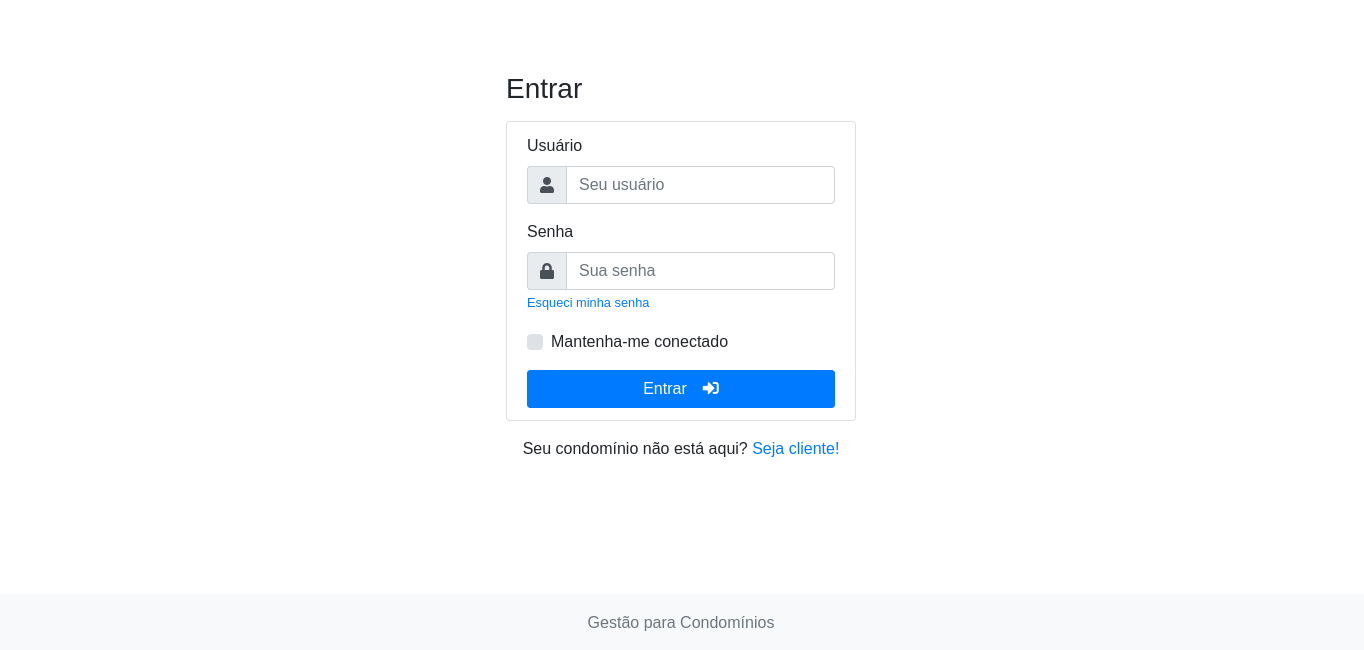
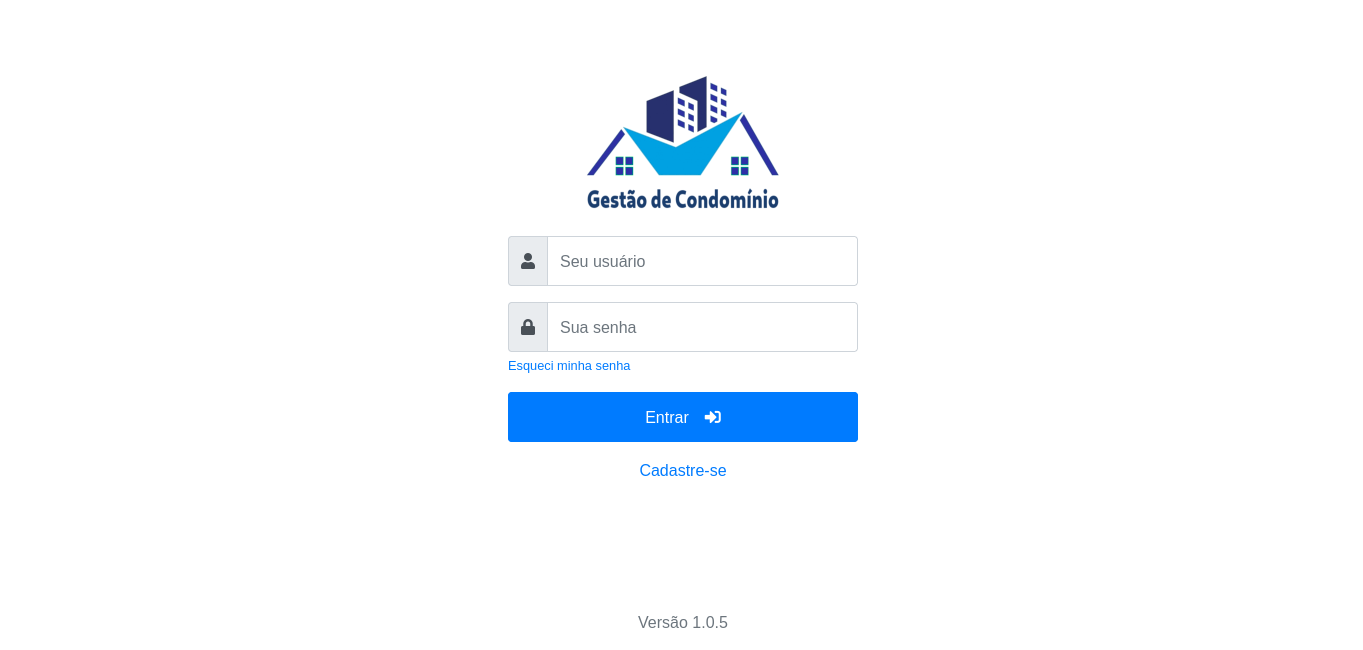
Atualização de arquivos

diff --git a/src/main/resources/templates/site/inicio.html b/src/main/resources/templates/site/inicio.html
@@ -1,72 +1,67 @@
-
 <!doctype html>
 <html lang="pt-br" xmlns:th="http://www.thymeleaf.org">
 <head>
-
-<title>Entrar</title>
-
+    <title>Gestão de Condomínio</title>
 </head>
 <body>
-	<th:block th:fragment="conteudo">
-		<main role="main" class="container">
-		<div class="m-auto" style="max-width: 350px;">
-			<h3 class="font-weight-light mb-3">Entrar</h3>
-			<div th:if="${param.erro}">
-				<div class="alert alert-danger">Usuário ou senha inválidos!</div>
-			</div>
-			<div th:if="${param.sair}">
-				<div class="alert alert-info">Desconectado com sucesso!</div>
-			</div>
-			<div th:if="${param.redefinido}">
-				<div class="alert alert-success">Senha redefinida, tente entrar novamente!</div>
-			</div>
-			<div th:if="${param.alterado}">
-				<div class="alert alert-success">Seu cadastro foi alterado, você precisa entrar novamente!</div>
-			</div>
-			<div th:if="${param.novo}">
-				<div class="alert alert-success">Sua conta foi criada, obrigado!</div>
-			</div>
-			<form th:action="@{/entrar}" th:method="post" class="needs-validation" autocomplete="off" novalidate>
-				<div class="card">
-					<ul class="list-group list-group-flush">
-						<li class="list-group-item">
-							<div class="form-group">
-								<label>Usuário</label>
-								<div class="input-group">
-									<div class="input-group-prepend">
-										<span class="input-group-text"><i class="fas fa-user"></i></span>
-									</div>
-									<input class="form-control last" type="text" name="username" placeholder="Seu usuário" autofocus="autofocus" required />
-									<div class="invalid-feedback">Campo obrigatório</div>
-								</div>
-							</div>
-							<div class="form-group">
-								<label>Senha</label>
-								<div class="input-group">
-									<div class="input-group-prepend">
-										<span class="input-group-text"><i class="fas fa-lock"></i></span>
-									</div>
-									<input class="form-control last" type="password" name="password" placeholder="Sua senha" required />
-									<div class="invalid-feedback">Campo obrigatório</div>
-								</div>
-								<small><a th:href="@{/conta/redefinir}" tabindex="-1">Esqueci minha senha</a></small>
-							</div>
-							<div class="custom-control custom-checkbox mb-3">
-								<input class="custom-control-input" type="checkbox" id="remember-me" name="remember-me" /> <label class="custom-control-label" for="remember-me">Mantenha-me conectado</label>
-							</div>
-							<button type="submit" class="btn btn-primary btn-block">
-								Entrar<i class="fas fa-sign-in-alt ml-3"></i>
-							</button>
-						</li>
-					</ul>
-				</div>
-			</form>
-			<p class="text-center mt-3">
-				Seu condomínio não está aqui? <a th:href="@{/conta/cadastrar}">Seja cliente!</a>
-			</p>
-		</div>
-		</main>
-	</th:block>
+<th:block th:fragment="conteudo">
+    <main role="main" class="container">
+        <div class="container-login" style="max-width: 350px;">
+            <div class="logo-login text-center">
+                <img src="images/logo.png">
+            </div>
+
+            <div th:if="${param.erro}">
+                <div class="alert alert-danger">Usuário ou senha inválidos!</div>
+            </div>
+            <div th:if="${param.sair}">
+                <div class="alert alert-info">Desconectado com sucesso!</div>
+            </div>
+            <div th:if="${param.redefinido}">
+                <div class="alert alert-success">Senha redefinida, tente entrar novamente!</div>
+            </div>
+            <div th:if="${param.alterado}">
+                <div class="alert alert-success">Seu cadastro foi alterado, você precisa entrar novamente!</div>
+            </div>
+            <div th:if="${param.novo}">
+                <div class="alert alert-success">Sua conta foi criada, obrigado!</div>
+            </div>
+            <form th:action="@{/entrar}" th:method="post" class="needs-validation" autocomplete="off" novalidate>
+                <ul class="list-group list-group-flush">
+                    <li class="list-group-item">
+                        <div class="form-group">
+                            <div class="input-group">
+                                <div class="input-group-prepend">
+                                    <span class="input-group-text"><i class="fas fa-user"></i></span>
+                                </div>
+                                <input class="form-control last input-login" type="text" name="username"
+                                       placeholder="Seu usuário" autofocus="autofocus" required/>
+                                <div class="invalid-feedback">Campo obrigatório</div>
+                            </div>
+                        </div>
+                        <div class="form-group">
+                            <div class="input-group">
+                                <div class="input-group-prepend">
+                                    <span class="input-group-text"><i class="fas fa-lock"></i></span>
+                                </div>
+                                <input class="form-control last input-login" type="password" name="password"
+                                       placeholder="Sua senha" required/>
+                                <div class="invalid-feedback">Campo obrigatório</div>
+                            </div>
+                            <small><a th:href="@{/conta/redefinir}" tabindex="-1">Esqueci minha senha</a></small>
+                        </div>
+                        <button type="submit" class="btn btn-primary btn-block input-login">
+                            Entrar<i class="fas fa-sign-in-alt ml-3"></i>
+                        </button>
+                    </li>
+                </ul>
+            </form>
+            <p class="text-center mt-3">
+                <a th:href="@{/conta/cadastrar}">Cadastre-se</a>
+            </p>
+        </div>
+    </main>
+</th:block>
 <th:block th:fragment="jsAdicional"></th:block>
 </body>
 </html>

diff --git a/src/main/resources/static/css/meu.css b/src/main/resources/static/css/meu.css
@@ -280,11 +280,38 @@ fieldset:disabled input::placeholder, fieldset:disabled textarea::placeholder{
 		left: auto;
 	}
 }
+
 button.dropdown-item {
 	cursor: pointer;
 }
+
+.list-group-item {
+    padding: 0px !important;
+    border: 0px !important;
+}
+
 .list-group-item[data-toggle=collapse]{
 	cursor: pointer;
+}
+
+.container-login {
+  width: 100%;
+  max-width: 380px;
+  margin: auto;
+}
+
+.logo-login {
+  margin-top: 0px !important;
+  padding-bottom: 20px !important;
+}
+
+.form-item {
+  margin: 0px 0px !important;
+  padding: 8px 0px !important;
+}
+
+.input-login {
+  padding: 12px !important;
 }
 
 /*  Correções nos inputs de formulários */

diff --git a/src/main/resources/templates/fragmentos/rodape.html b/src/main/resources/templates/fragmentos/rodape.html
@@ -3,9 +3,9 @@
 <html xmlns:th="http://www.thymeleaf.org">
 <body>
 	<th:block th:fragment="rodape">
-		<footer class="footer bg-light d-print-none">
+		<footer class="footer d-print-none">
 			<div class="text-center">
-				<span class="text-muted">Gestão para Condomínios</span>
+				<span class="text-muted">Versão 1.0.5</span>
 			</div>
 		</footer>
 	</th:block>
